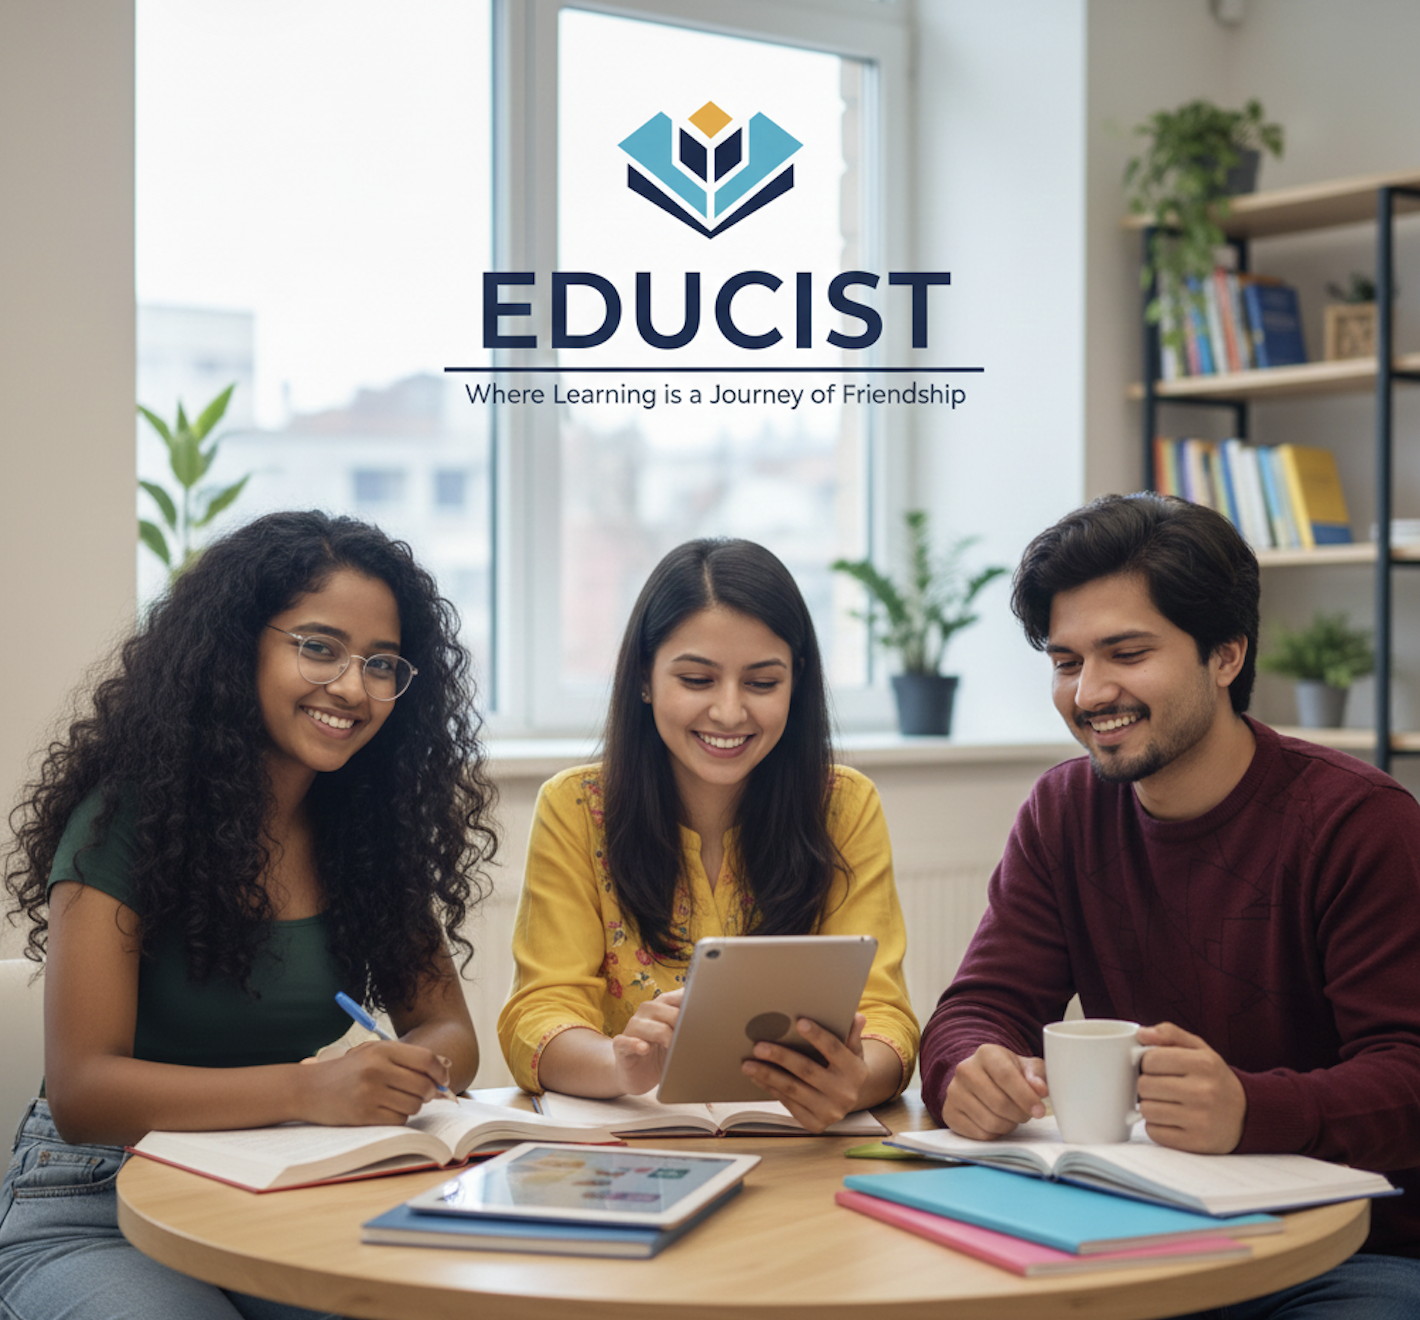
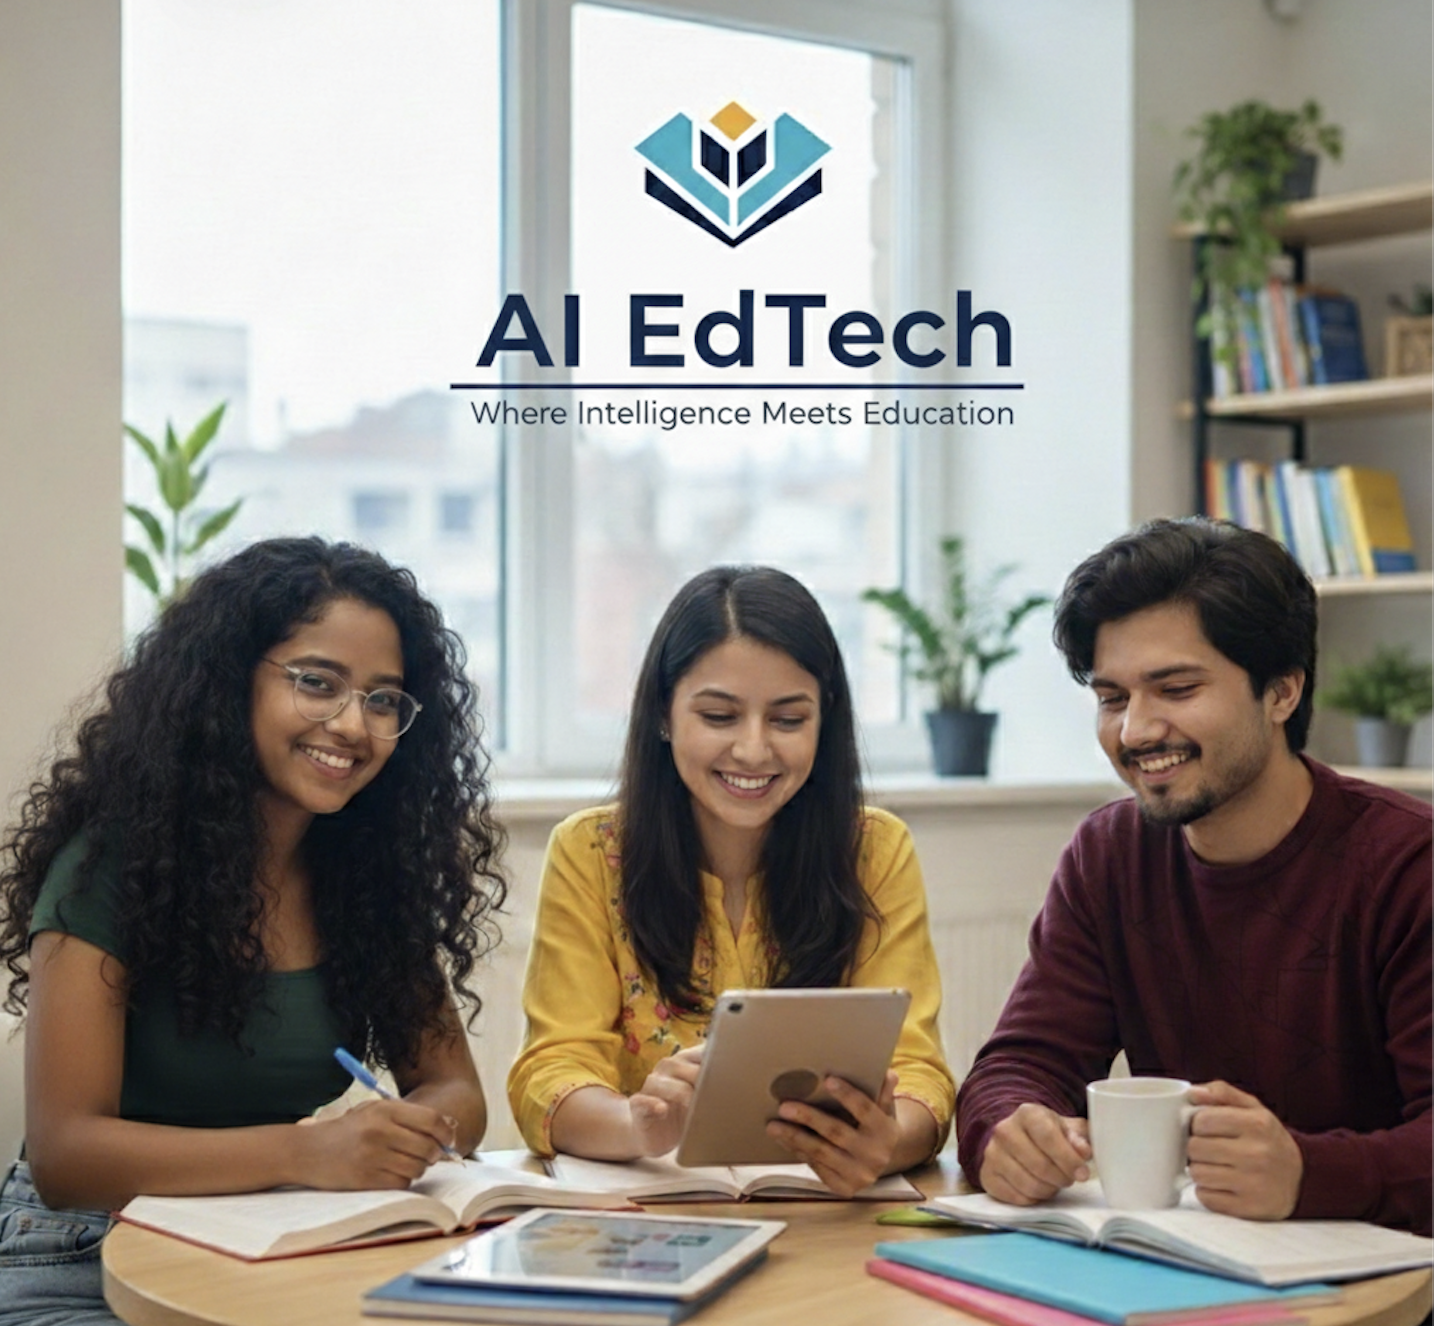
spellings mistakes fixed

diff --git a/src/components/ChatBot.jsx b/src/components/ChatBot.jsx
@@ -6,7 +6,7 @@ export default function ChatBot() {
   const [isOpen, setIsOpen] = useState(false);
   const [input, setInput] = useState("");
   const [messages, setMessages] = useState([
-    { role: "assistant", content: "Hi! I'm your EduAI assistant. I'm optimized for accuracy and low-cost search. How can I help?" }
+    { role: "assistant", content: "Hi! I'm your AI EdTech assistant. I'm optimized for accuracy and low-cost search. How can I help?" }
   ]);
   const [loading, setLoading] = useState(false);
   const scrollRef = useRef(null);

diff --git a/src/components/Navbar.jsx b/src/components/Navbar.jsx
@@ -23,7 +23,7 @@ export default function Navbar({ setView, currentView }) {
         {/* Logo Section */}
         <div className="flex items-center gap-2 cursor-pointer" onClick={() => { setView('landing'); window.scrollTo(0,0); }}>
           <div className="bg-indigo-600 p-2 rounded-xl text-white shadow-lg"><Brain size={24} /></div>
-          <span className="text-xl font-black">EduAI</span>
+          <span className="text-xl font-black">AI EdTech</span>
         </div>
 
         {/* Navigation Links */}
